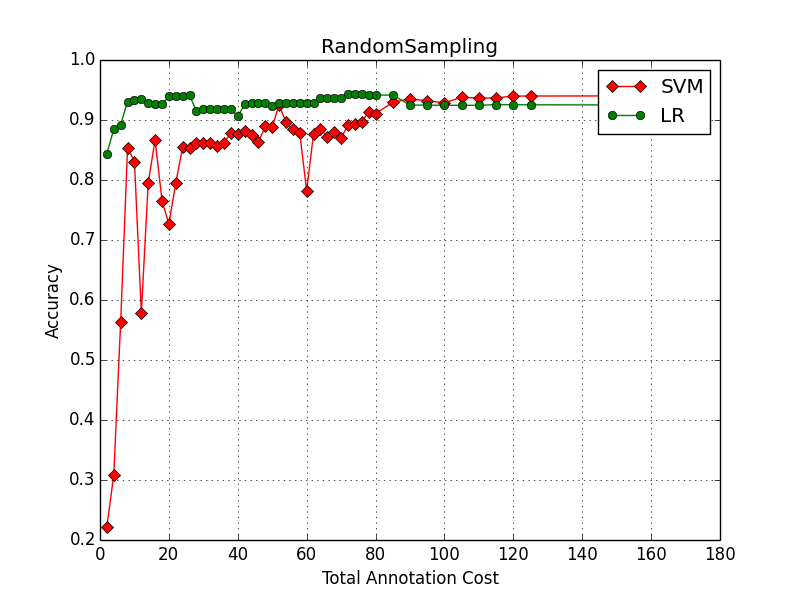
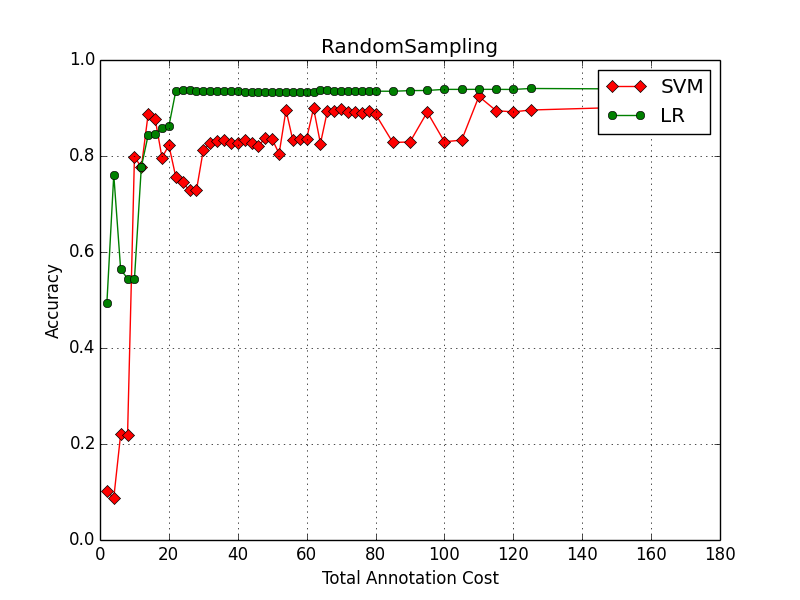
graph

Changed region(s): [[0.0938, 0.12, 0.75, 0.63], [0.0938, 0.69, 0.1875, 0.84], [0.0938, 0.87, 0.1562, 0.93]]

diff --git a/src/edu/cmu/al/simulation/BasicLabelingSimulation.java b/src/edu/cmu/al/simulation/BasicLabelingSimulation.java
@@ -47,7 +47,7 @@ public class BasicLabelingSimulation implements LabelingSimulation {
 	}
 
 	public void firstLabel(int k) {
-		String sql = "select product_id from " + Configuration.getFeatureTable() + " where f2 >= " + ScoreDefine.posSocre + " limit " + k / 2;
+		String sql = "select product_id from " + Configuration.getFeatureTable() + " where f2 >= " + ScoreDefine.posSocre + " limit " + k / 2 + " offset 5";
 		ResultSet rs = SqlManipulation.query(sql);
 		try {
 			while (rs.next()) {
@@ -58,7 +58,7 @@ public class BasicLabelingSimulation implements LabelingSimulation {
 			e.printStackTrace();
 		}
 		
-		sql = "select product_id from " + Configuration.getFeatureTable() + " where f2 < " + ScoreDefine.posSocre + " limit " + (k - k / 2);
+		sql = "select product_id from " + Configuration.getFeatureTable() + " where f2 < " + ScoreDefine.posSocre + " limit " + (k - k / 2) + " offset 10";
 		rs = SqlManipulation.query(sql);
 		try {
 			while (rs.next()) {

diff --git a/src/edu/cmu/al/main/Main.java b/src/edu/cmu/al/main/Main.java
@@ -21,15 +21,15 @@ import edu.cmu.al.util.Constant;
  */
 public class Main {
 	public static int round = 50;
-	public static int instance = 2;
+	public static int instance = 15;
 	public static double ratio = 0.5;
 
 	public static void main(String[] args) {
 
-		// System.out.println("DB initializing...");
-		// Preprocess.run();
-		// System.out.println("Finished");
-		// FeaturePipeline.produceFeatures();
+//		 System.out.println("DB initializing...");
+//		 Preprocess.run();
+//		 System.out.println("Finished");
+//		 FeaturePipeline.produceFeatures();
 
 		System.out.println("Experiment");
 

diff --git a/src/edu/cmu/al/sampling/QBCstrategy.java b/src/edu/cmu/al/sampling/QBCstrategy.java
@@ -53,8 +53,9 @@ public class QBCstrategy extends BasicSampling{
 	
 	public static double utilityScore(String prod_id) {
 		String sql = "select reg_confidence, lr_confidence, svm_confidence from " + Configuration.getPredictTable()
-				+ " where product_id = " + prod_id;
-		
+				+ " where product_id =  '"  + prod_id + "'";
+
+		System.out.println(prod_id);
 		ResultSet rs = SqlManipulation.query(sql);
 		double utilityScore = 0.0;
 		try {

diff --git a/src/edu/cmu/al/feature/FeaturePipeline.java b/src/edu/cmu/al/feature/FeaturePipeline.java
@@ -19,6 +19,6 @@ public class FeaturePipeline {
 		featureId = featureExtractor.extractFeature(featureId);
 		
 		featureExtractor = new LanguageFeatureExtractor();
-		featureId = featureExtractor.extractFeature(featureId);
+//		featureId = featureExtractor.extractFeature(featureId);
 	}
 }
